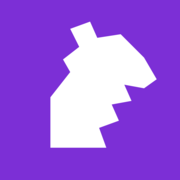
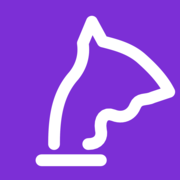
turn off demo mode, rebrand to "e棋会友" with a line-art knight mark
This deploy is meant to actually run as the owner's own chess-coaching
booking system now, not advertise itself as a demo — DEMO_MODE_ENABLED
was built for exactly this switch, so flipping it off removes the
marketing headline, the shared-credentials banner, quick-login buttons,
and "want your own system" pitch, leaving a plain production login page.

Also renames the brand from "棋艺预约" to "e棋会友" everywhere it appears
(header wordmark, page title, PWA manifest, roster share page, OG image),
and replaces the solid-fill knight icon with an open-stroke line-art
knight (contour + base line) in the same purple, matching a reference
image the owner provided.

Changed region(s): [[0.1944, 0.0833, 0.9722, 0.9444]]

diff --git a/app/roster/[sessionId]/[date]/page.tsx b/app/roster/[sessionId]/[date]/page.tsx
@@ -39,9 +39,9 @@ export default async function PublicRosterPage({
       <div className="mx-auto flex max-w-md flex-col gap-4">
         <div className="flex items-center gap-2 text-xs font-semibold uppercase tracking-wide text-muted-foreground">
           <span className="flex h-6 w-6 items-center justify-center rounded-lg bg-primary text-[11px] font-extrabold text-primary-foreground">
-            C
+            e
           </span>
-          棋艺预约 · 课程报名名单
+          e棋会友 · 课程报名名单
         </div>
 
         <div className="rounded-3xl border border-border bg-card p-5 shadow-sm">

diff --git a/lib/i18n.tsx b/lib/i18n.tsx
@@ -9,7 +9,7 @@ type Dict = Record<string, { zh: string; en: string }>
 // Central bilingual dictionary. Keys are grouped by prefix for readability.
 export const dict: Dict = {
   // Brand / global
-  "brand.name": { zh: "棋艺预约", en: "ChessBook" },
+  "brand.name": { zh: "e棋会友", en: "e棋会友" },
   "brand.tagline": { zh: "教学管理及预约平台", en: "Coaching management & booking" },
   "home.demo.title": { zh: "可定制Demo演示", en: "Customizable — Demo" },
   "home.demo.switchRoleHint": {

diff --git a/app/manifest.ts b/app/manifest.ts
@@ -12,7 +12,7 @@ import type { MetadataRoute } from "next"
 export default function manifest(): MetadataRoute.Manifest {
   return {
     name: "国际象棋教学预约系统",
-    short_name: "棋艺预约",
+    short_name: "e棋会友",
     description: "私教课程、锦标赛报名、课时卡包、教练排课与运营报表一体化管理平台",
     start_url: "/",
     display: "standalone",

diff --git a/lib/feature-flags.ts b/lib/feature-flags.ts
@@ -19,4 +19,4 @@ export const PUBLIC_MONTH_VIEW_ENABLED = false
 // the login card on the homepage (components/app-shell.tsx). Only meant
 // for the public Hostinger demo deploy — leave false on a real studio's
 // own deployment, where these credentials wouldn't even exist.
-export const DEMO_MODE_ENABLED = true
+export const DEMO_MODE_ENABLED = false

diff --git a/app/layout.tsx b/app/layout.tsx
@@ -30,7 +30,7 @@ export const metadata: Metadata = {
   appleWebApp: {
     capable: true,
     statusBarStyle: 'default',
-    title: '棋艺预约',
+    title: 'e棋会友',
   },
   // Preview card shown when this link is shared (WeChat, Xiaohongshu,
   // etc.) — the actual image comes from app/opengraph-image.png, which
